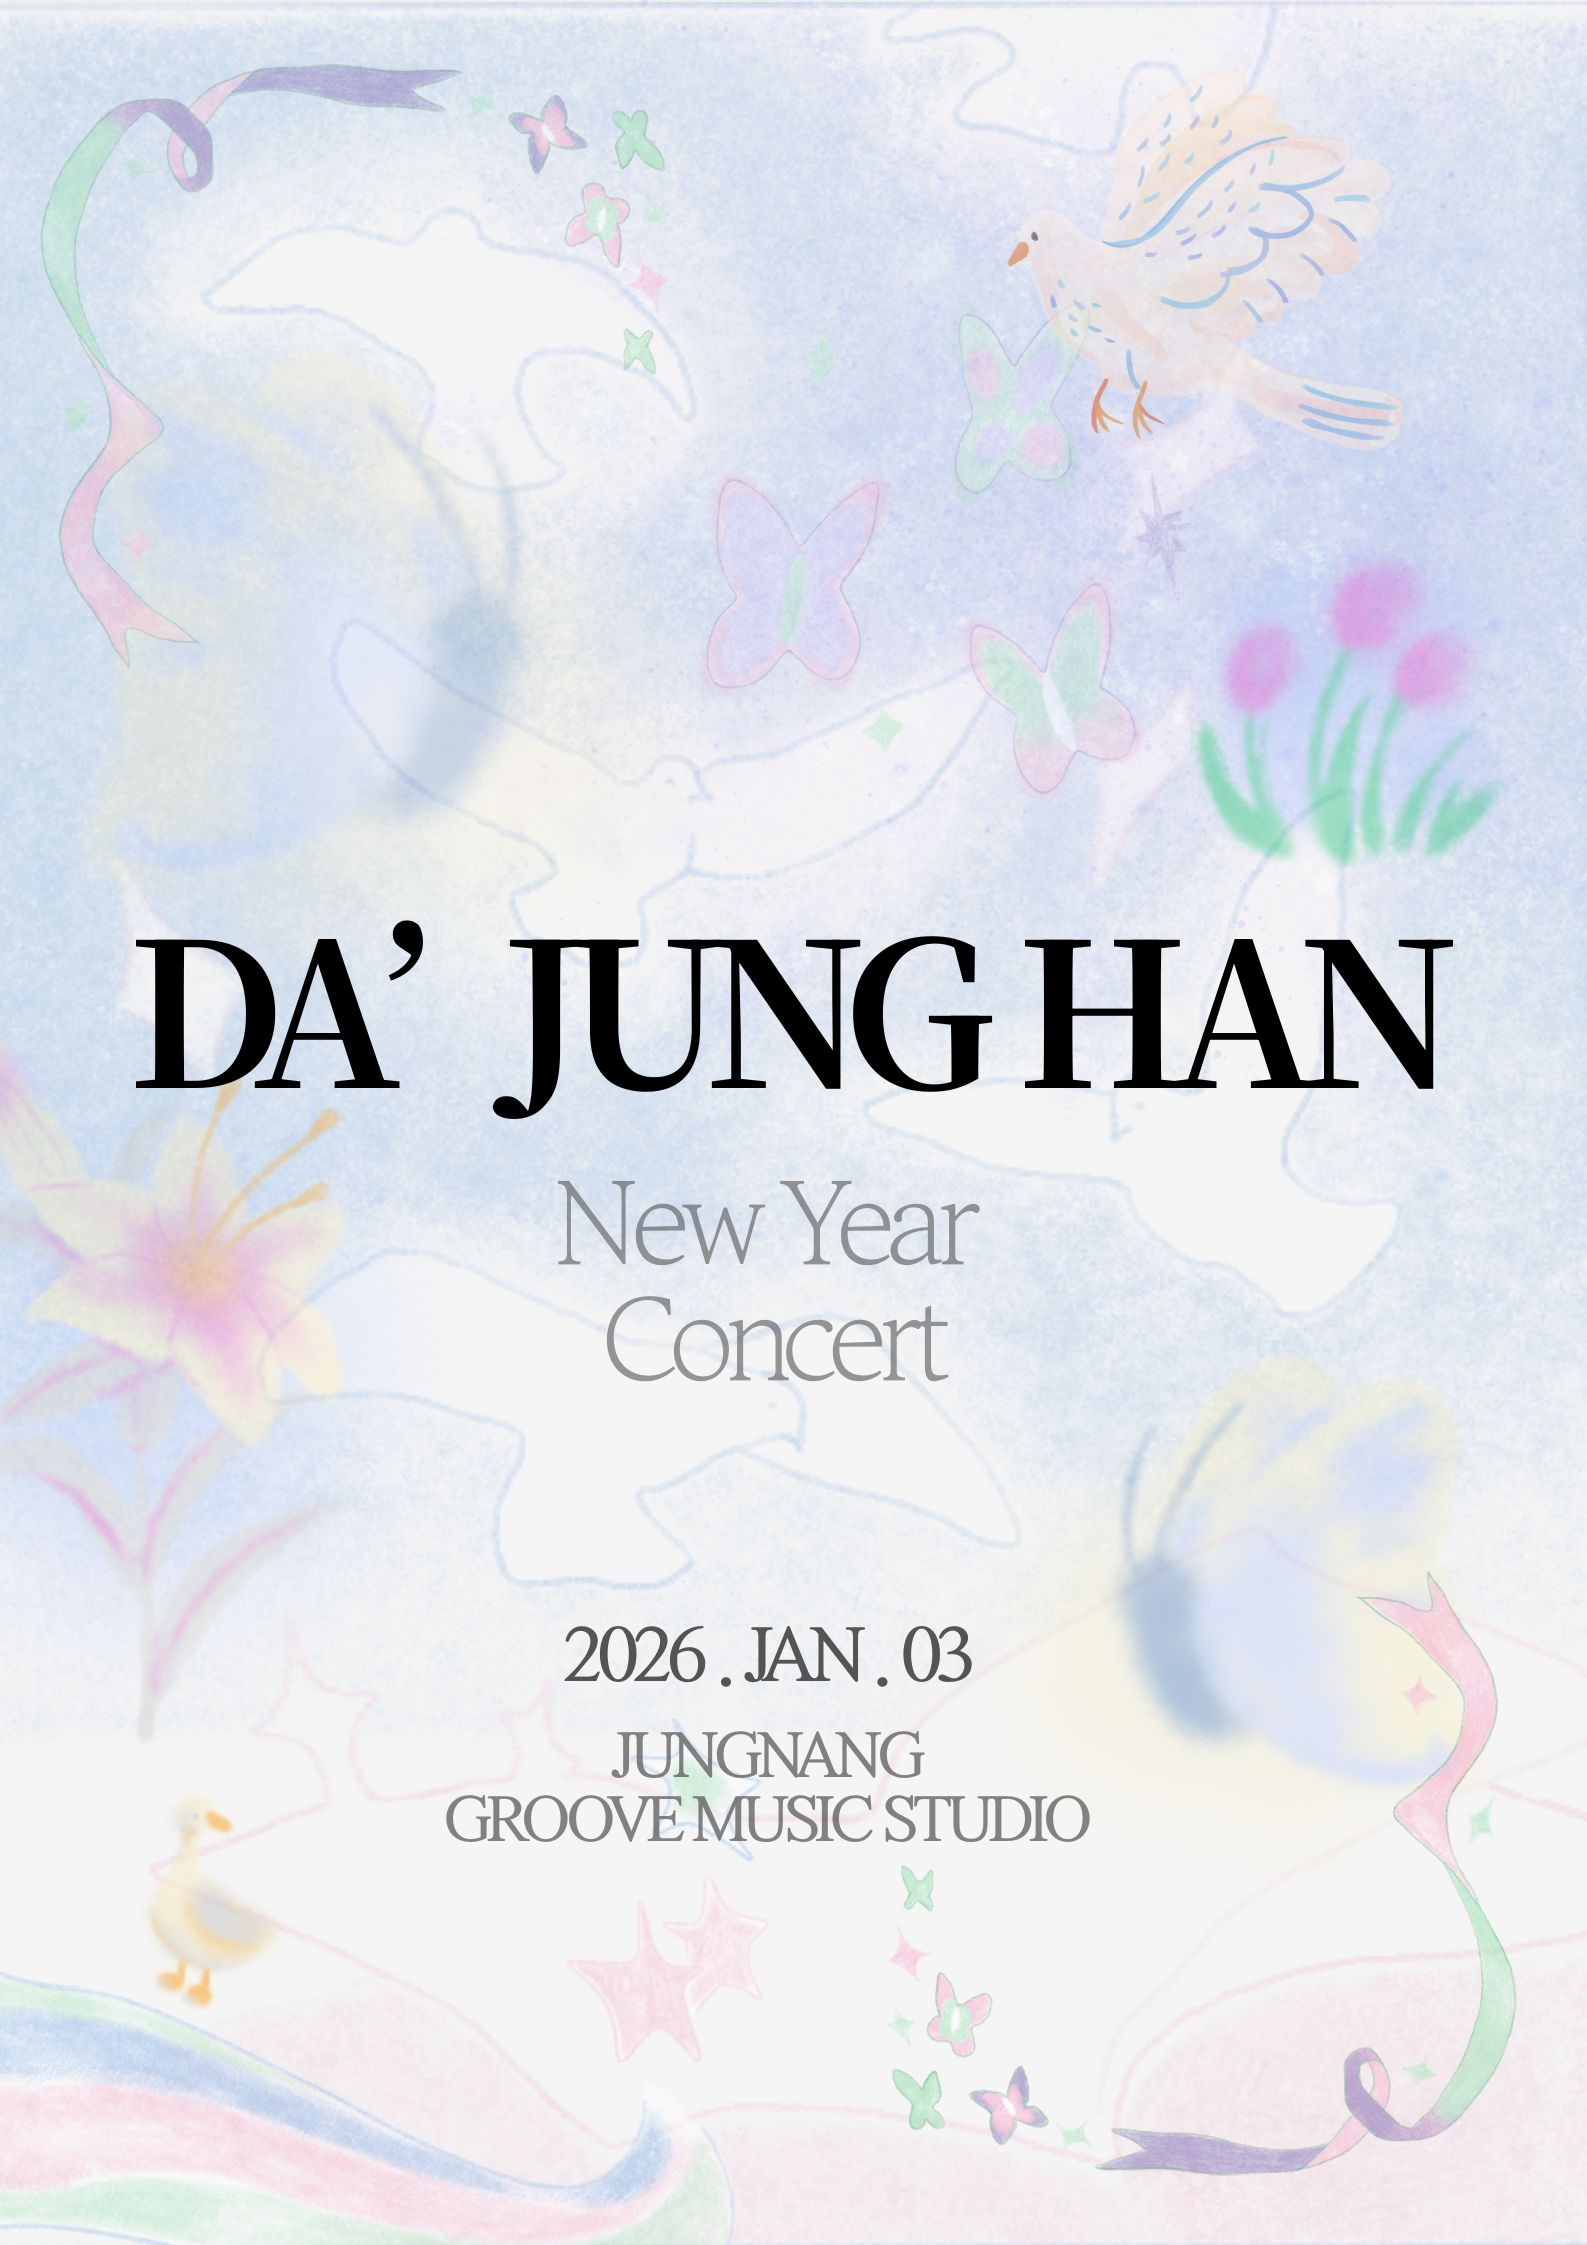
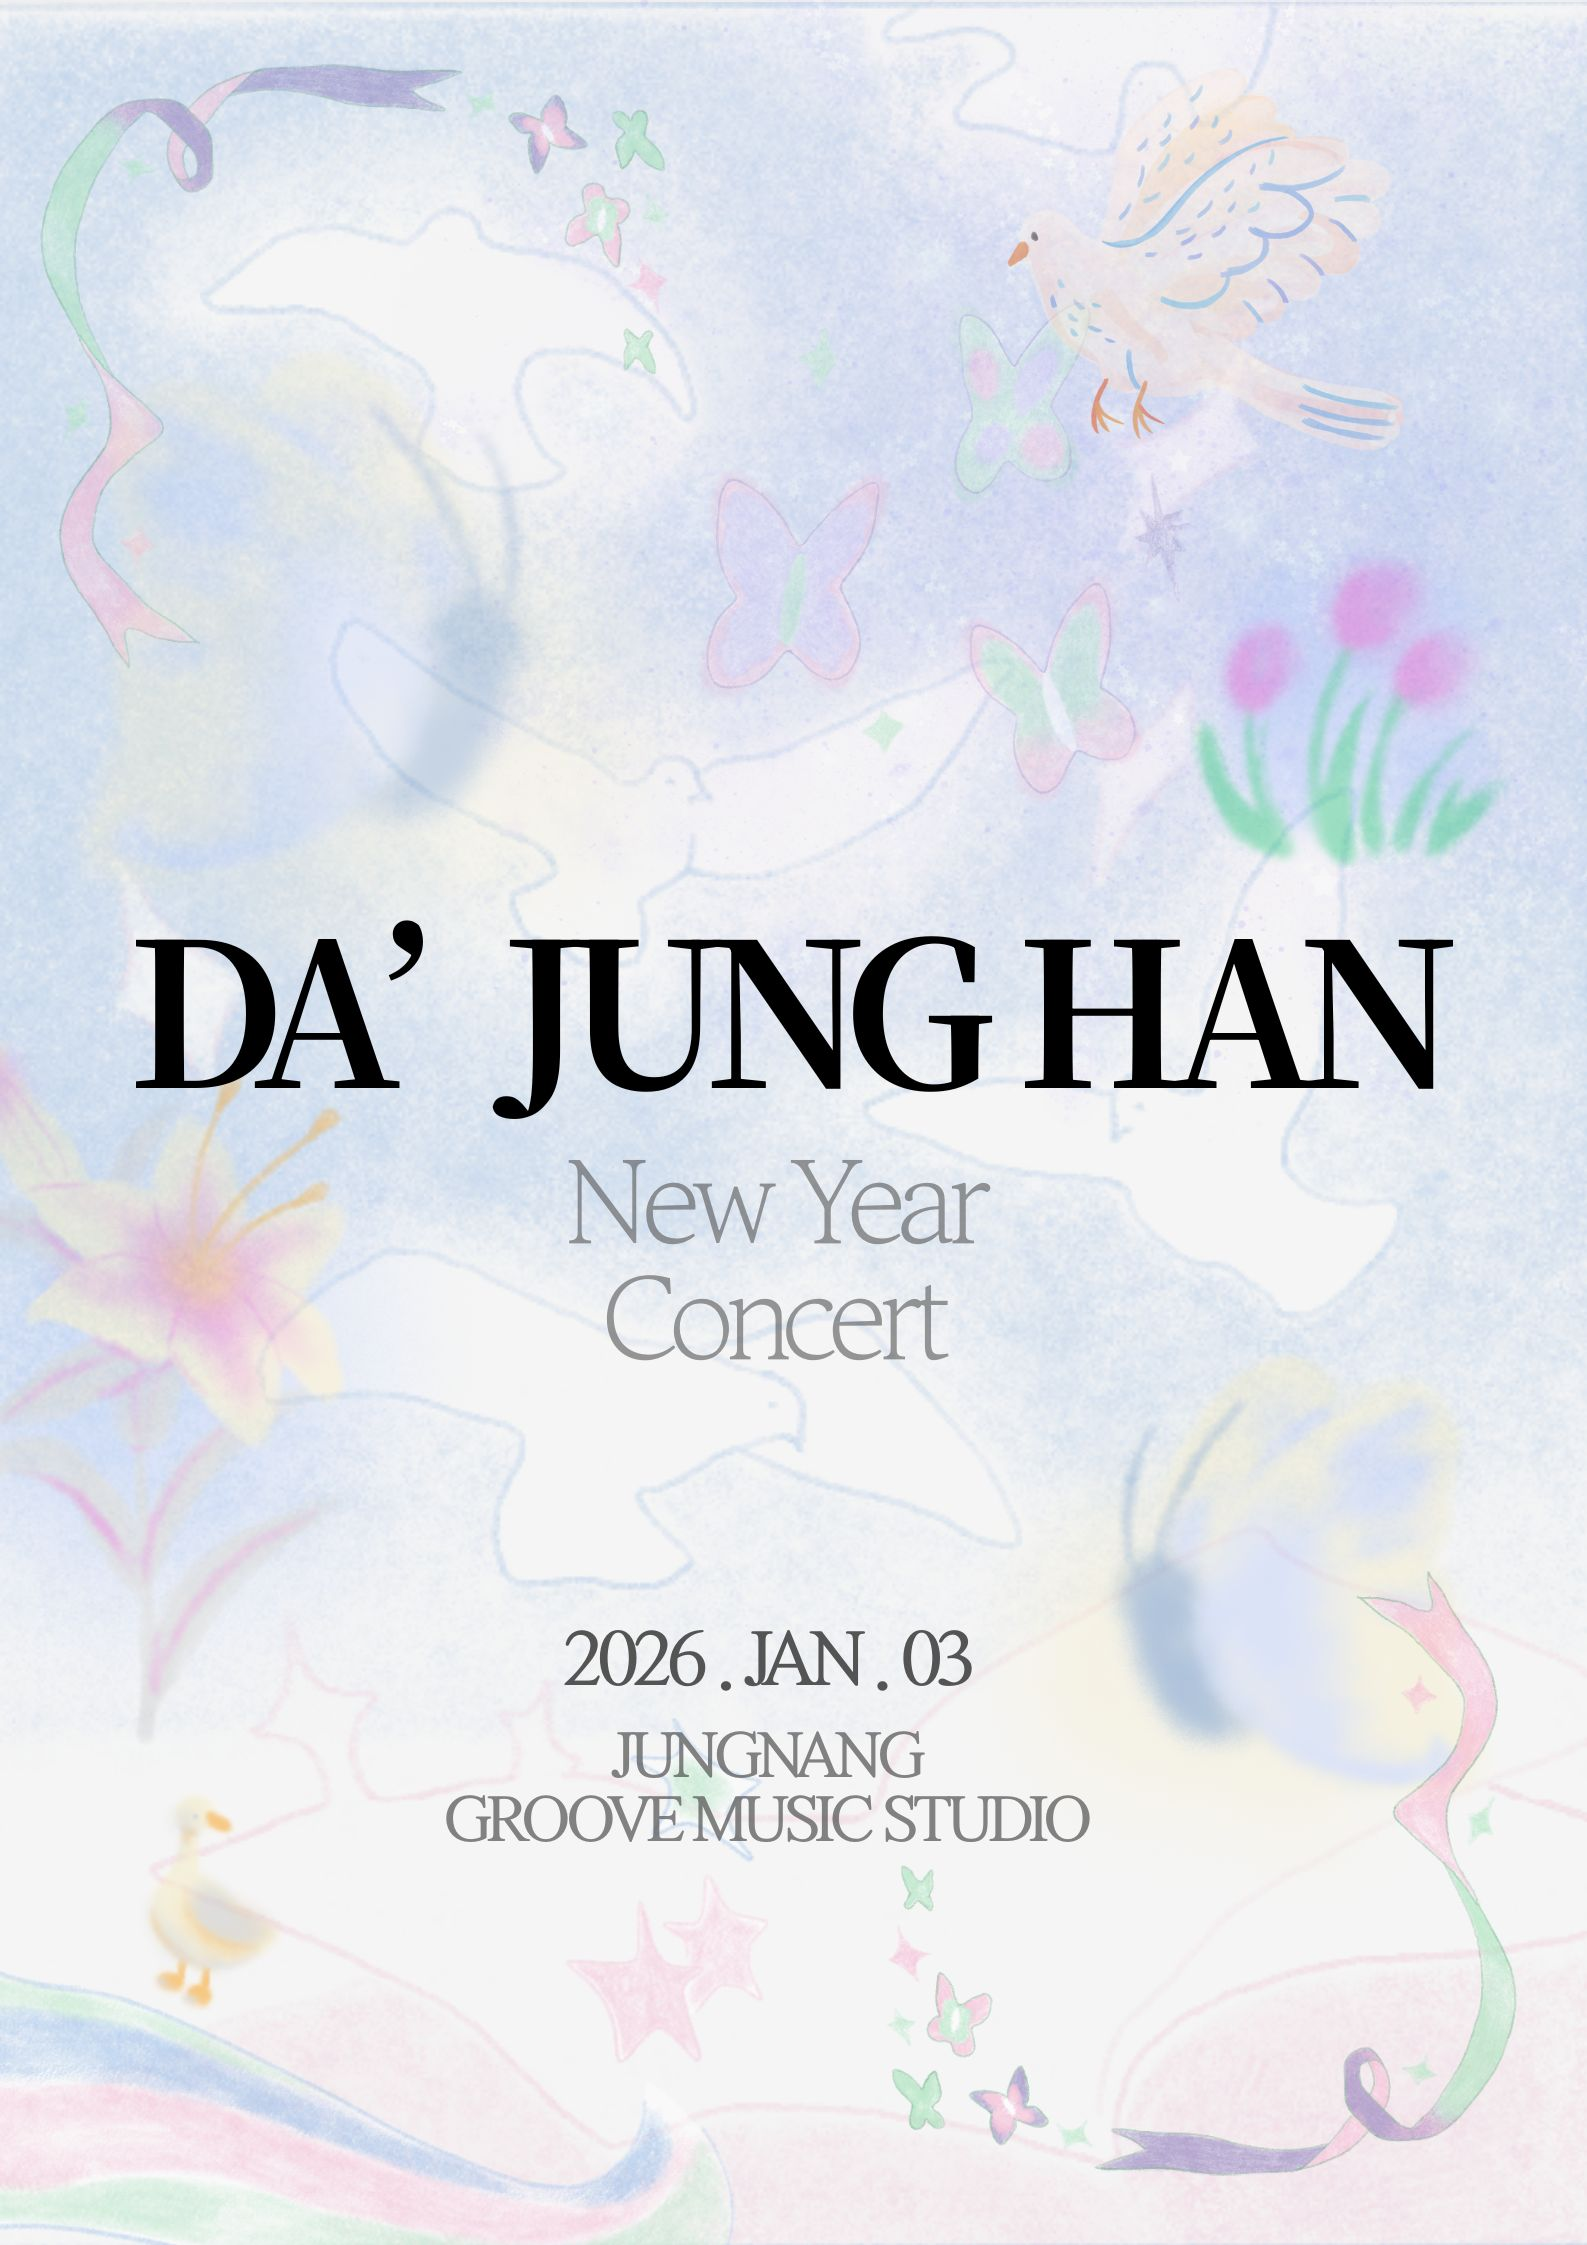
design: 포스터 변경

Changed region(s): [[0.3396, 0.4989, 0.6175, 0.6236], [0.3396, 0.7171, 0.6175, 0.7483]]

diff --git a/index.html b/index.html
@@ -139,7 +139,7 @@
     
     <!-- [섹션 1: 메인] -->
     <div class="poster-wrapper fade-in-section">
-        <img src="poster4.jpg" onerror="this.src='https://placehold.co/600x800/222/FFF?text=Da+JungHan+Band'" class="poster-img" alt="공연 포스터">
+        <img src="poster5.jpg" onerror="this.src='https://placehold.co/600x800/222/FFF?text=Da+JungHan+Band'" class="poster-img" alt="공연 포스터">
         <div class="p-4 bg-gradient-dark">
             <h1 class="fw-bold display-6">2026 GROOVE<br>MUSIC LIVE</h1>
             <p class="text-secondary mt-2">당신의 겨울을 뜨겁게 달굴 최고의 무대.<br>[다' 정한 밴드] 공연에 초대합니다.</p>
